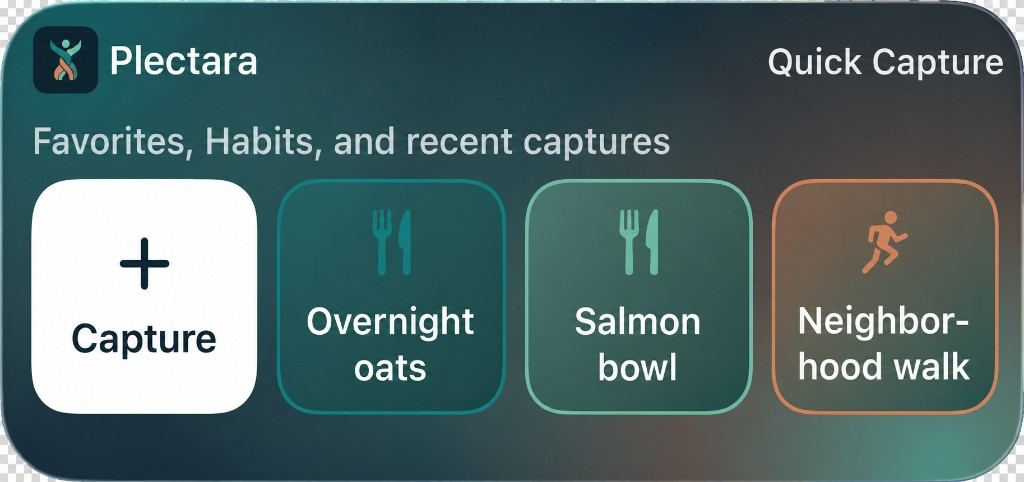
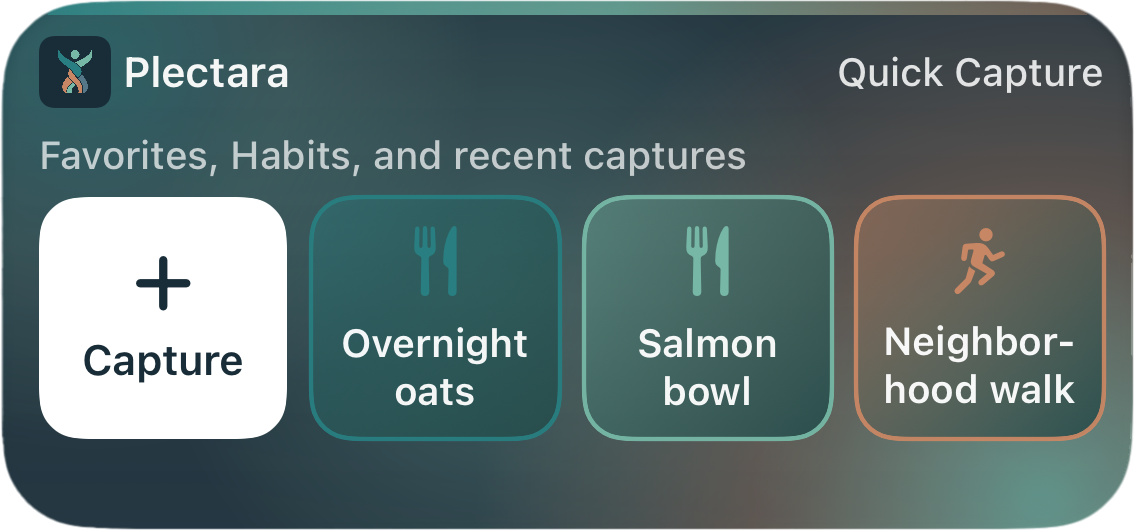
fix: restore true alpha transparency in widget screenshots

diff --git a/src/components/PhotoPlaceholder.tsx b/src/components/PhotoPlaceholder.tsx
@@ -2,9 +2,9 @@ import Image from 'next/image';
 
 const aspects = {
   phone: 'aspect-[498/1024]',
-  'widget-small': 'aspect-square',
-  'widget-medium': 'aspect-[1024/482]',
-  'widget-large': 'aspect-[1024/899]',
+  'widget-small': 'aspect-[531/530]',
+  'widget-medium': 'aspect-[1134/530]',
+  'widget-large': 'aspect-[1136/1183]',
 } as const;
 
 const widths = {
